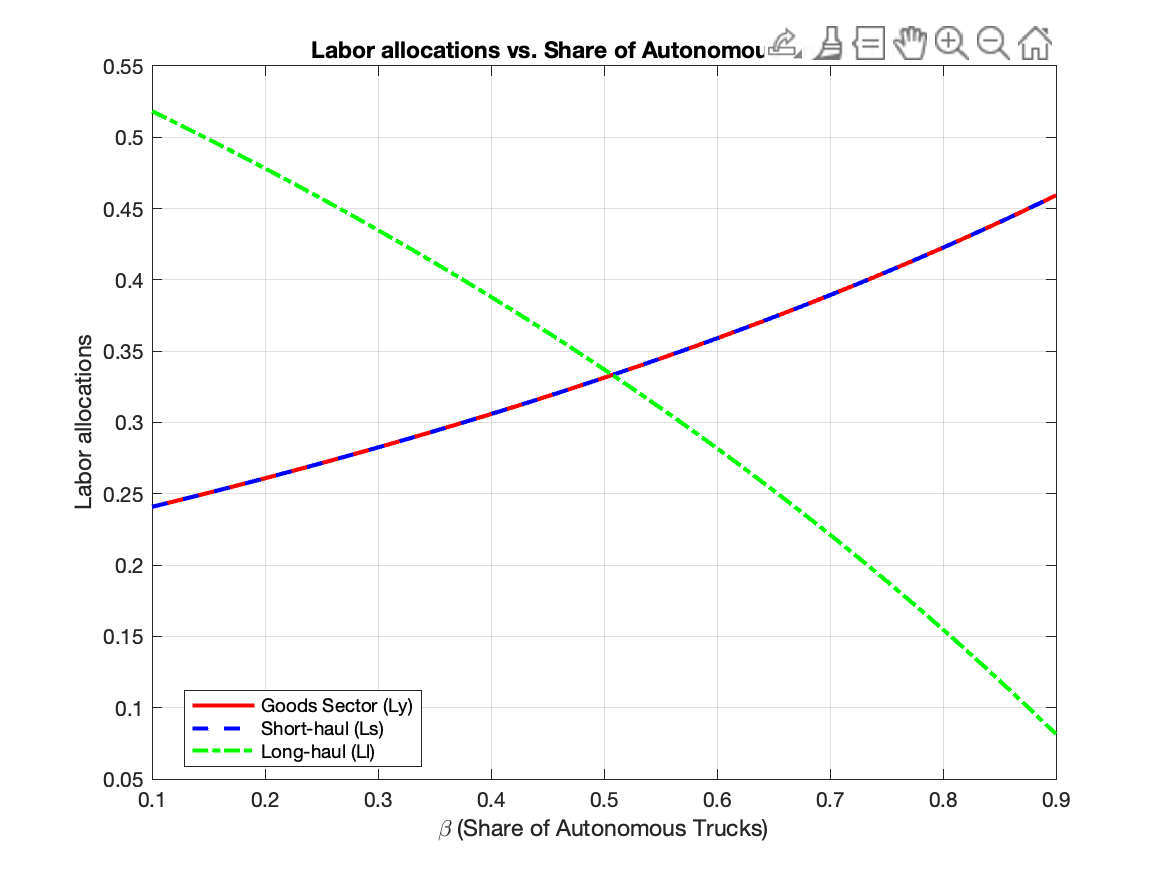
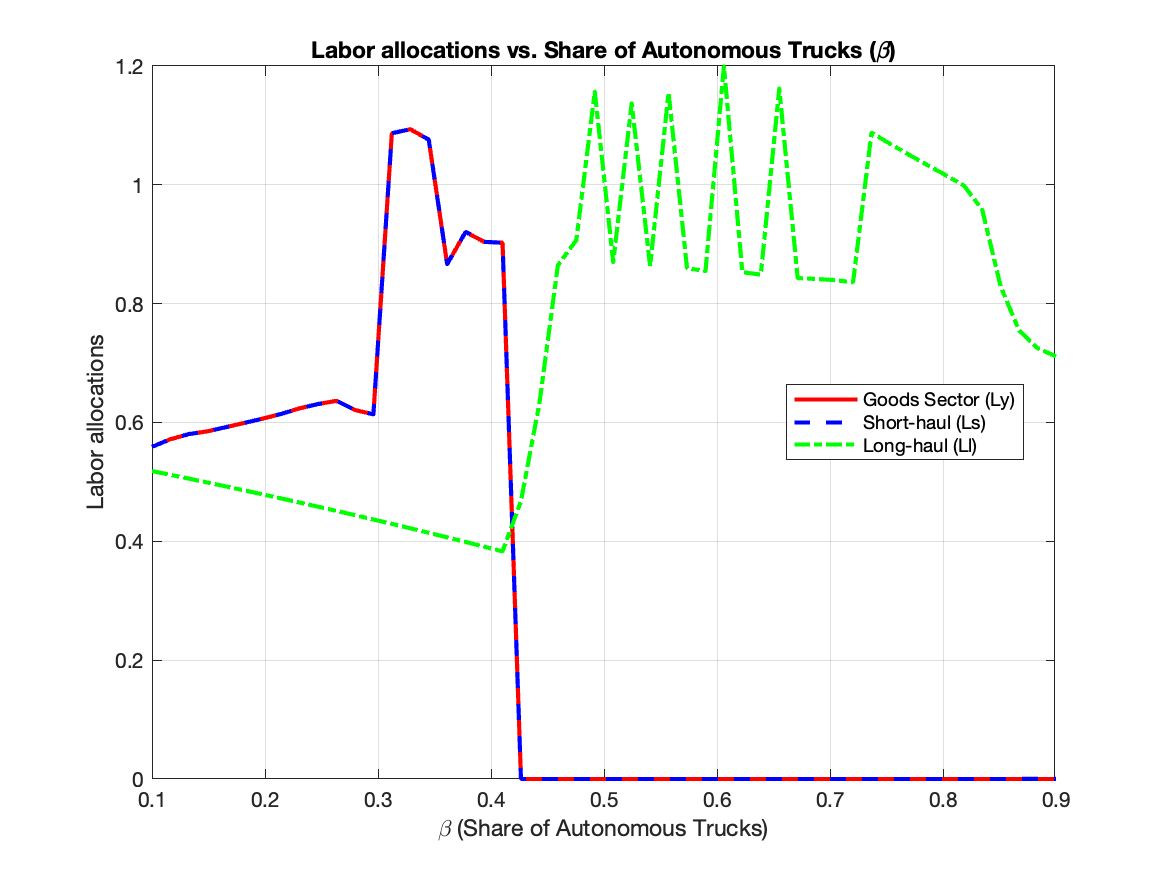
alternative numerical solution Took labor market clearance outside of fsolve and iterating over the wage level instead.

diff --git a/Aggregate_Autonomous_Truck_dynamic.m b/Aggregate_Autonomous_Truck_dynamic.m
@@ -6,7 +6,7 @@ clc
 
 %% Parameters
 D = 0.9; % disutility
-Ay = 7; % productivity of good Y
+Ay = 3; % productivity of good Y
 As = 1; % productivity of short haul
 Al = 1; % productivity of long haul
 alpha = 0.5; % the share of Y
@@ -31,88 +31,95 @@ U = zeros(1,length(beta_range));
 EXITFLAG = zeros(1,length(beta_range));
 FVAL = zeros(1,length(beta_range));
 
-function F = AT(x_log, params)
-    x = exp(x_log);  % Log-to-level transformation
-    % Unpack variables
-    W = x(1:3); 
-    % W(1): Wage in producing Y
-    % W(2): Wage in local transportation
-    % W(3): Wage in interstate transportation
 
-    L = x(4:6); % Labor allocations
-    % L(1): Labor allocated to the good sector
-    % L(2): Labor allocated to the local transportation sector 
-    % L(3): Labor allocated to the interstate transportation sector
+function F = AT(x_log, params, W1)
+  x = exp(x_log);  % Log-to-level transformation
+  % Unpack variables
+  W = [W1; x(1:2)]; 
+  % W(1): Wage in producing Y (fixed)
+  % W(2): Wage in local transportation
+  % W(3): Wage in interstate transportation
 
-    K = x(7); % Autonomous Trucks
+  L = x(3:5); % Labor allocations
+  % L(1): Labor allocated to the good sector
+  % L(2): Labor allocated to the local transportation sector 
+  % L(3): Labor allocated to the interstate transportation sector
 
-    C = x(8); % Consumption
+  K = x(6); % Autonomous Trucks
 
-    % Unpack parameters
-    D = params.D;
-    Ay = params.Ay;
-    As = params.As;
-    Al = params.Al;
-    alpha = params.alpha;
-    delta = params.delta;
-    L_bar = params.L_bar;
-    Pk = params.Pk;
-    beta = params.beta;
+  C = x(7); % Consumption
 
-    % Equations
-    F(1) = W(3) - C * D;
-    F(2) = C - ((Ay * L(1)) ^ alpha * (min(As * L(2), Al * K ^ beta * L(3) ^ (1 - beta))) ^ (1 - alpha) - delta * K);
-    F(3) = W(3) * L(3) - (1 - alpha) * (1 - beta) * (Ay * L(1)) ^ alpha * (min(As * L(2), Al * K ^ beta * L(3) ^ (1 - beta))) ^ (1 - alpha);
-    F(4) = W(2) * L(2) - (1 - alpha) * (Ay * L(1)) ^ alpha * (min(As * L(2), Al * K ^ beta * L(3) ^ (1 - beta))) ^ (1 - alpha);
-    F(5) = W(1) * L(1) - alpha * (Ay * L(1)) ^ alpha * (min(As * L(2), Al * K ^ beta * L(3) ^ (1 - beta))) ^ (1 - alpha);
-    F(6) = W(1) - W(2);
-    F(7) = Pk * K - (1 - alpha) * beta * (Ay * L(1)) ^ alpha * (min(As * L(2), Al * K ^ beta * L(3) ^ (1 - beta))) ^ (1 - alpha);
-    F(8) = L(1) + L(2) + L(3) - L_bar;
+  % Unpack parameters
+  D = params.D;
+  Ay = params.Ay;
+  As = params.As;
+  Al = params.Al;
+  alpha = params.alpha;
+  delta = params.delta;
+  L_bar = params.L_bar;
+  Pk = params.Pk;
+  beta = params.beta;
+
+  % Equations (labor market clearance removed)
+  F(1) = W(3) - C * D;
+  F(2) = C - ((Ay * L(1)) ^ alpha * (min(As * L(2), Al * K ^ beta * L(3) ^ (1 - beta))) ^ (1 - alpha) - delta * K);
+  F(3) = W(3) * L(3) - (1 - alpha) * (1 - beta) * (Ay * L(1)) ^ alpha * (min(As * L(2), Al * K ^ beta * L(3) ^ (1 - beta))) ^ (1 - alpha);
+  F(4) = W(2) * L(2) - (1 - alpha) * (Ay * L(1)) ^ alpha * (min(As * L(2), Al * K ^ beta * L(3) ^ (1 - beta))) ^ (1 - alpha);
+  F(5) = W(1) * L(1) - alpha * (Ay * L(1)) ^ alpha * (min(As * L(2), Al * K ^ beta * L(3) ^ (1 - beta))) ^ (1 - alpha);
+  F(6) = W(1) - W(2);
+  F(7) = Pk * K - (1 - alpha) * beta * (Ay * L(1)) ^ alpha * (min(As * L(2), Al * K ^ beta * L(3) ^ (1 - beta))) ^ (1 - alpha);
 end
 
+
 for i = 1:length(beta_range)
-        
-        % set parameter
-        params.D = D;
-        params.Ay = Ay;
-        params.As = As;
-        params.Al = Al;
-        params.alpha = alpha;
-        params.delta = delta;
-        params.L_bar = L_bar;
-        params.Pk = Pk;
-        params.beta = beta_range(i);
+  % set parameter
+  params.D = D;
+  params.Ay = Ay;
+  params.As = As;
+  params.Al = Al;
+  params.alpha = alpha;
+  params.delta = delta;
+  params.L_bar = L_bar;
+  params.Pk = Pk;
+  params.beta = beta_range(i);
 
-        % Initial guesses for the variables
-        x0 = log([1 * ones(3, 1); % Wage
-          1 * ones(3, 1); % Labor allocation
-          1; % Capital
-          1]); % Consumption
-        % Solve the system of equations
-        options = optimoptions('fsolve', ...
-        'Display', 'iter', ...
-        'TolFun', 1e-16, ...
-        'TolX', 1e-16, ...
-        'MaxIterations', 10000, ...
-        'MaxFunctionEvaluations', 50000);
-        [x_sol, fval, exitflag] = fsolve(@(x) AT(x, params), x0, options);
-        x = exp(x_sol);
-
-        % Store the solution
-        Wy(i) = x(1);
-        Ws(i) = x(2);
-        Wl(i) = x(3);
-        Ly(i) = x(4);
-        Ls(i) = x(5);
-        Ll(i) = x(6);
-        K(i) = x(7);
-        C(i) = x(8);
-        Q(i) = (Ay * x(4)) ^ alpha * (min(As * x(5), Al * x(7) ^ beta_range(i) * x(6) ^ (1 - beta_range(i)))) ^ (1 - alpha);
-        U(i) = ((1 - gamma) / gamma) * (log(C(i)) - Ll(i) * D); 
-
-        % exitflag
-        EXITFLAG(i) = exitflag;
-        FVAL(i) = norm(fval);
+  % Initial guess for wage (W1)
+  W1 = 1;
+  tol = 1e-6;
+  max_iter = 50;
+  iter = 0;
+  excess = 1;
+  while abs(excess) > tol && iter < max_iter
+    % Initial guesses for the remaining variables
+    x0 = log([1; 1; 1; 1; 1; 1; 1]); % [W2, W3, L1, L2, L3, K, C]
+    options = optimoptions('fsolve', ...
+      'Display', 'off', ...
+      'TolFun', 1e-10, ...
+      'TolX', 1e-10, ...
+      'MaxIterations', 1000, ...
+      'MaxFunctionEvaluations', 5000);
+    [x_sol, fval, exitflag] = fsolve(@(x) AT(x, params, W1), x0, options);
+    x = exp(x_sol);
+    W2 = x(1); W3 = x(2);
+    L1 = x(3); L2 = x(4); L3 = x(5);
+    Kval = x(6); Cval = x(7);
+    excess = (L1 + L2 + L3) - L_bar;
+    % Adjust W1 based on excess demand/supply
+    W1 = W1 * (1 + 0.5 * excess / L_bar);
+    iter = iter + 1;
+  end
+  Wy(i) = W1;
+  Ws(i) = W2;
+  Wl(i) = W3;
+  Ly(i) = L1;
+  Ls(i) = L2;
+  Ll(i) = L3;
+  K(i) = Kval;
+  C(i) = Cval;
+  Q(i) = (Ay * L1) ^ alpha * (min(As * L2, Al * Kval ^ beta_range(i) * L3 ^ (1 - beta_range(i)))) ^ (1 - alpha);
+  U(i) = ((1 - gamma) / gamma) * (log(C(i)) - Ll(i) * D);
+  EXITFLAG(i) = exitflag;
+  FVAL(i) = norm(fval);
 end
 
 
